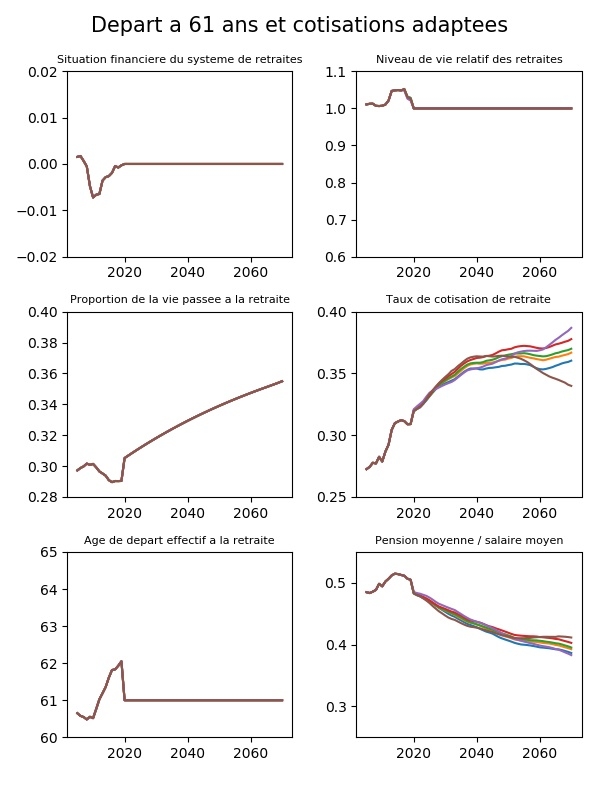
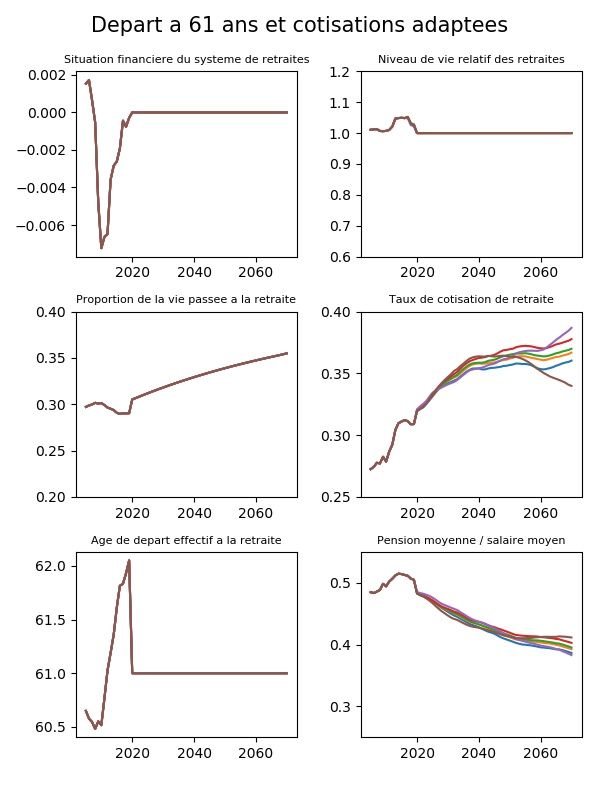
mise à jour réforme macron

diff --git a/demo.py b/demo.py
@@ -31,6 +31,20 @@ def graphiques(T, P, A, S, RNV, REV, B):
     
 ##############################################################################
 
+def affiche_solutions(As,Ts,Ps):
+
+    print "Valeur à rentrer sur le simulateur officiel du COR"
+    
+    ans=[2020, 2025, 2030, 2040, 2050, 2060, 2070]
+    for s in scenarios:
+        print
+        print "Scenario",s 
+        print "Age:        ", [ As[s][a] for a in ans ]
+        print "Cotisation: ", [ Ts[s][a] for a in ans ]
+        print "Pension:    ", [ Ps[s][a] for a in ans ]
+
+    print
+
 # génération des graphes pour le statu quo (COR)
 
 def simu0():
@@ -112,21 +126,30 @@ def simu3(Ts=0):
         
     graphiques(Ts,Ps,As, S,RNV,REV, get('B'))
 
+    print "Maintien du niveau de vie"
+    affiche_solutions(Ts,Ps,As)
+    
     savefig("macron_niveau_de_vie.jpg")
 
     
+        
+    
+    
 # génération des graphes pour la réforme Macron avec point indexé sur le salaire moyen
 
-def simu4(Ps=0):
+def simu4(Ps=0,Ts=0):
     
     figure(figsize=(6,8))
     suptitle('Reforme Macron, point indexe sur le salaire moyen',fontsize=15)
                 
-    Ts,Ps,As = calcule_Ts_Ps_As_fixant_Ps_S(Ps)
+    Ts,Ps,As = calcule_Ts_Ps_As_fixant_Ps_Ts_S(Ps,Ts)
     S,RNV,REV = calcule_S_RNV_REV(Ts,Ps,As)
         
     graphiques(Ts,Ps,As, S,RNV,REV, get('B'))
 
+    print "Maintien du rapport pension moyenne / salaire moyen"
+    affiche_solutions(Ts,Ps,As)
+    
     savefig("macron_point_indexe.jpg")
 
     
@@ -134,6 +157,6 @@ def simu4(Ps=0):
 simu0()
 simu1()
 simu2()
-simu3()
-simu4()
+simu3(0.2812)
+simu4(0,0.2812)
 show()

diff --git a/retraites.py b/retraites.py
@@ -94,12 +94,12 @@ def calcule_Ts_Ps_As_fixant_Ts_RNV_S(Tcible=0, RNV=1.0, S=0.0):
     return Ts,Ps,As
 
 
-def calcule_Ts_Ps_As_fixant_Ps_S(Pcible=0, S=0.0):
+def calcule_Ts_Ps_As_fixant_Ps_Ts_S(Pcible=0, Tcible=0, S=0.0):
     
     # Si Pcible==0, utilise le taux du COR en 2020
+    # Si Tcible==0, utilise le taux fixé par le COR
     
     T,P,A,G,NR,NC,TCR,TCS,CNV,dP,B = get('T'),get('P'),get('A'),get('G'),get('NR'),get('NC'),get('TCR'),get('TCS'),get('CNV'),get('dP'),get('B')
-
         
     Ps = deepcopy(P)
     for s in scenarios:
@@ -110,7 +110,13 @@ def calcule_Ts_Ps_As_fixant_Ps_S(Pcible=0, S=0.0):
         for a in annees_futures:
             Ps[s][a] = p
     
-    Ts, As = deepcopy(T), deepcopy(A)
+    Ts = deepcopy(T)
+    if Tcible!=0:
+        for s in scenarios:
+            for a in annees_futures:
+                Ts[s][a] = Tcible
+
+    As = deepcopy(A)
 
     for s in scenarios:
 
